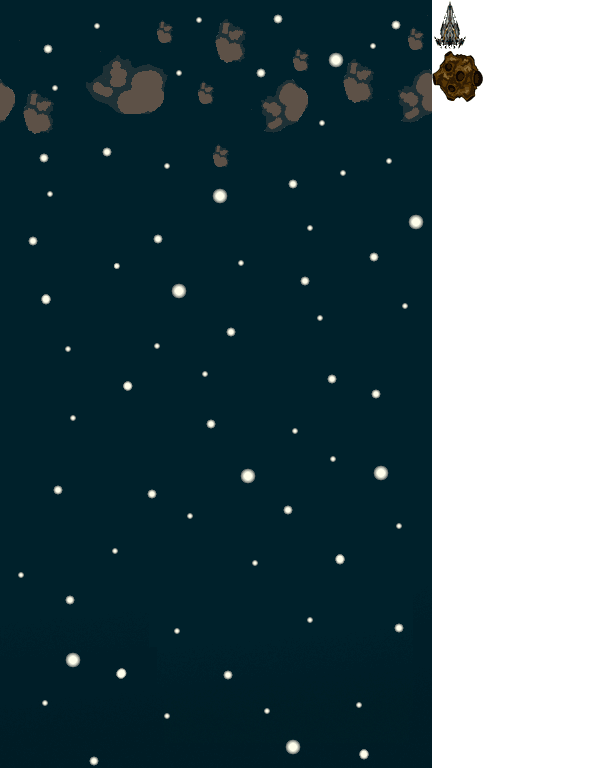
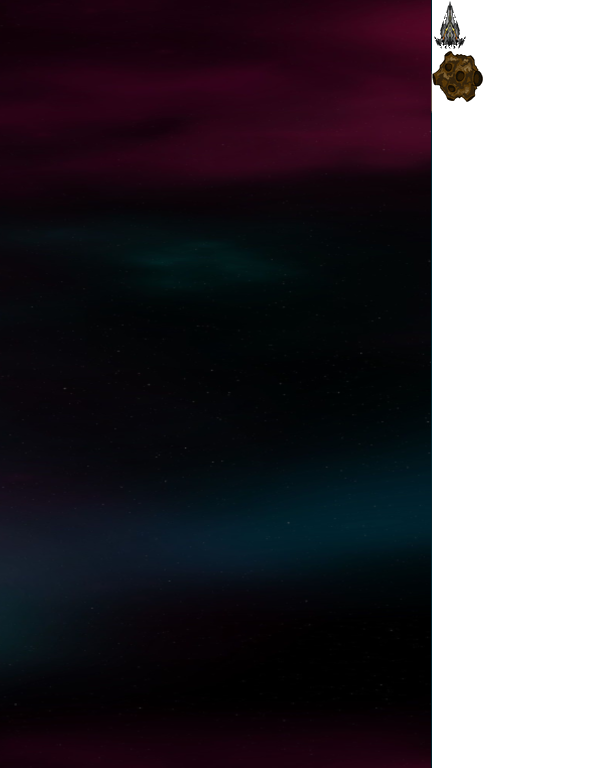
Nouveau BG + correction sprite

diff --git a/script.js b/script.js
@@ -10,20 +10,21 @@ const speed = 6.2;
 const size = [33,49];           //Taille de l'oiseau (utilisé dans drawImage())
 const jump = -11.5;
 let cTenth = (canvas.height / 4);
+const astSize = [50,48];
 
 
 
 // asteroid settings
-const astWidth = 78;           //largeur poteau
-// const pipeGap = 270;            //ecart entre les poteaux 
-const astLoc = () => (Math.random() * ((canvas.width - astWidth) - astWidth)) + astWidth;
+const astWidth = astSize[0];           //largeur poteau
+const pipeGap = 270;            //ecart entre les poteaux 
+const astLoc = () => (Math.random() * ((canvas.height - astSize[1]) - astSize[1])) + astSize[1];
                                 //fonction qui va placer les poteaux au hasard et en générer.
 
 
 let index = 0,
     bestScore = 0,
     currentScore = 0,
-    pipes = [],
+    astroids = [],
     flight,
     flyHeight;
 
@@ -32,7 +33,7 @@ const setup = () =>{            // Cette variable permet de remettre a 0 le jeux
     flight = jump;
     flyHeight = (canvas.height / 2) - (size[1] / 2);
 
-    pipes = Array(3).fill().map((a, i) => [canvas.width + (i * (pipeGap + pipeWidth)), pipeLoc()]);
+    astroids = Array(3).fill().map((a, i) => [canvas.height + (i * astSize[1]), astLoc()]);
                                 // Pipes est composé de 2 elements. Element 1 : calcule du rapprochement des poteaux sur l'oiseau
                                 // Element 2 : calcule de la hauteur de l'element (pour pas qu'ils soient tous allignés)
 }                               
@@ -98,29 +99,54 @@ let render = () => {
     
     }
 
-            //////////////////////////////////  PIPE GENERATION  //////////////////////////////////////////////////
-    //pipe display
-    // if(gamePlaying){
-    //     pipes.map(pipe => {
-    //         pipe[0] -= speed;
+            //////////////////////////////////  ASTROID GENERATION  //////////////////////////////////////////////////
 
-    //         //top pipe
-    //         ctx.drawImage(img, 432, 588 - pipe[1], pipeWidth, pipe[1], pipe[0], 0, pipeWidth, pipe[1]);
+    if(gamePlaying){     
+      astroids.map(asteroid => {
+          
 
-    //         //botom pipe
-    //         ctx.drawImage(img, 432 + pipeWidth, 108, pipeWidth, canvas.height - pipe[1] + pipeGap, pipe[0], pipe[1] + pipeGap, pipeWidth, canvas.height - pipe[1] + pipeGap );
+            asteroid[0] -= speed;
 
-    //         if (pipe[0] <= -pipeWidth){
-    //             currentScore ++;
-    //             bestScore = Math.max (bestScore, currentScore);
+            function getRandomArbitrary(min, max) {
+                return Math.random() * (max - min) + min;
+              }
+            
+           test = 0;
+            let astPosY = (index *(speed/1.5)) % canvas.height;
+            console.log(test++);
+            // while( astPosY = 0){
+            //     newAstPosX = getRandomArbitrary(0, (432-astWidth));
+            //     astPosX = newAstPosX;
+            // };
+            // if(astPosY= 0){
+            //     newAstPosX = getRandomArbitrary(0, (432-astWidth));
+            //     astPosX = newAstPosX;
+                
+                
+            // }else{
+            //     astPosX = 0;
+            // }
+            
 
-    //             //remove pipe + new pipe
-    //             pipes = [...pipes.slice(1), [pipes[pipes.length-1][0] + pipeGap + pipeWidth, pipeLoc() ]];
-    //                             //Quand un poteau sort a gauche on en regenere un autre a droite
-    //         }
-            //////////////////////////////////  PIPE GENERATION  //////////////////////////////////////////////////
-            //////////////////////////////////  END GAME  //////////////////////////////////////////////////
-            // if hit the pipe, end
+            //Asteroid
+            ctx.drawImage(img, 432, 52, astWidth, astSize[1], 350, astPosY,   astWidth, astSize[1]);
+            
+           // ctx.drawImage(img, 0,0, canvas.width, canvas.height, 0, ((index *(speed)) % canvas.height) , canvas.width, canvas.height);
+
+            // //botom pipe
+            // ctx.drawImage(img, 432 + astWidth, 108, astWidth, canvas.height - pipe[1] + pipeGap, pipe[0], pipe[1] + pipeGap, astWidth, canvas.height - pipe[1] + pipeGap );
+
+            if (asteroid[0] <= -canvas.height){
+                currentScore ++;
+                bestScore = Math.max (bestScore, currentScore);
+
+                //remove pipe + new pipe
+                astroids = [...astroids.slice(1), [astroids[astroids.length-1][0] + pipeGap + astWidth, astLoc() ]];
+                                //Quand un poteau sort a gauche on en regenere un autre a droite
+            }
+            ////////////////////////////////  PIPE GENERATION  //////////////////////////////////////////////////
+            ////////////////////////////////  END GAME  //////////////////////////////////////////////////
+            //if hit the pipe, end
             // if([
             //     pipe[0] <= cTenth + size[0],
             //     pipe[0] + pipeWidth >= cTenth, //SI l'oiseau se situe au niveau (Y) d'un poteau
@@ -132,9 +158,9 @@ let render = () => {
             // }
 
            
-    //     })
+        })
         
-    // }
+    }
  //////////////////////////////////  END GAME  //////////////////////////////////////////////////
     
     document.getElementById('bestScore').innerHTML = `Meilleur : ${bestScore}`;
